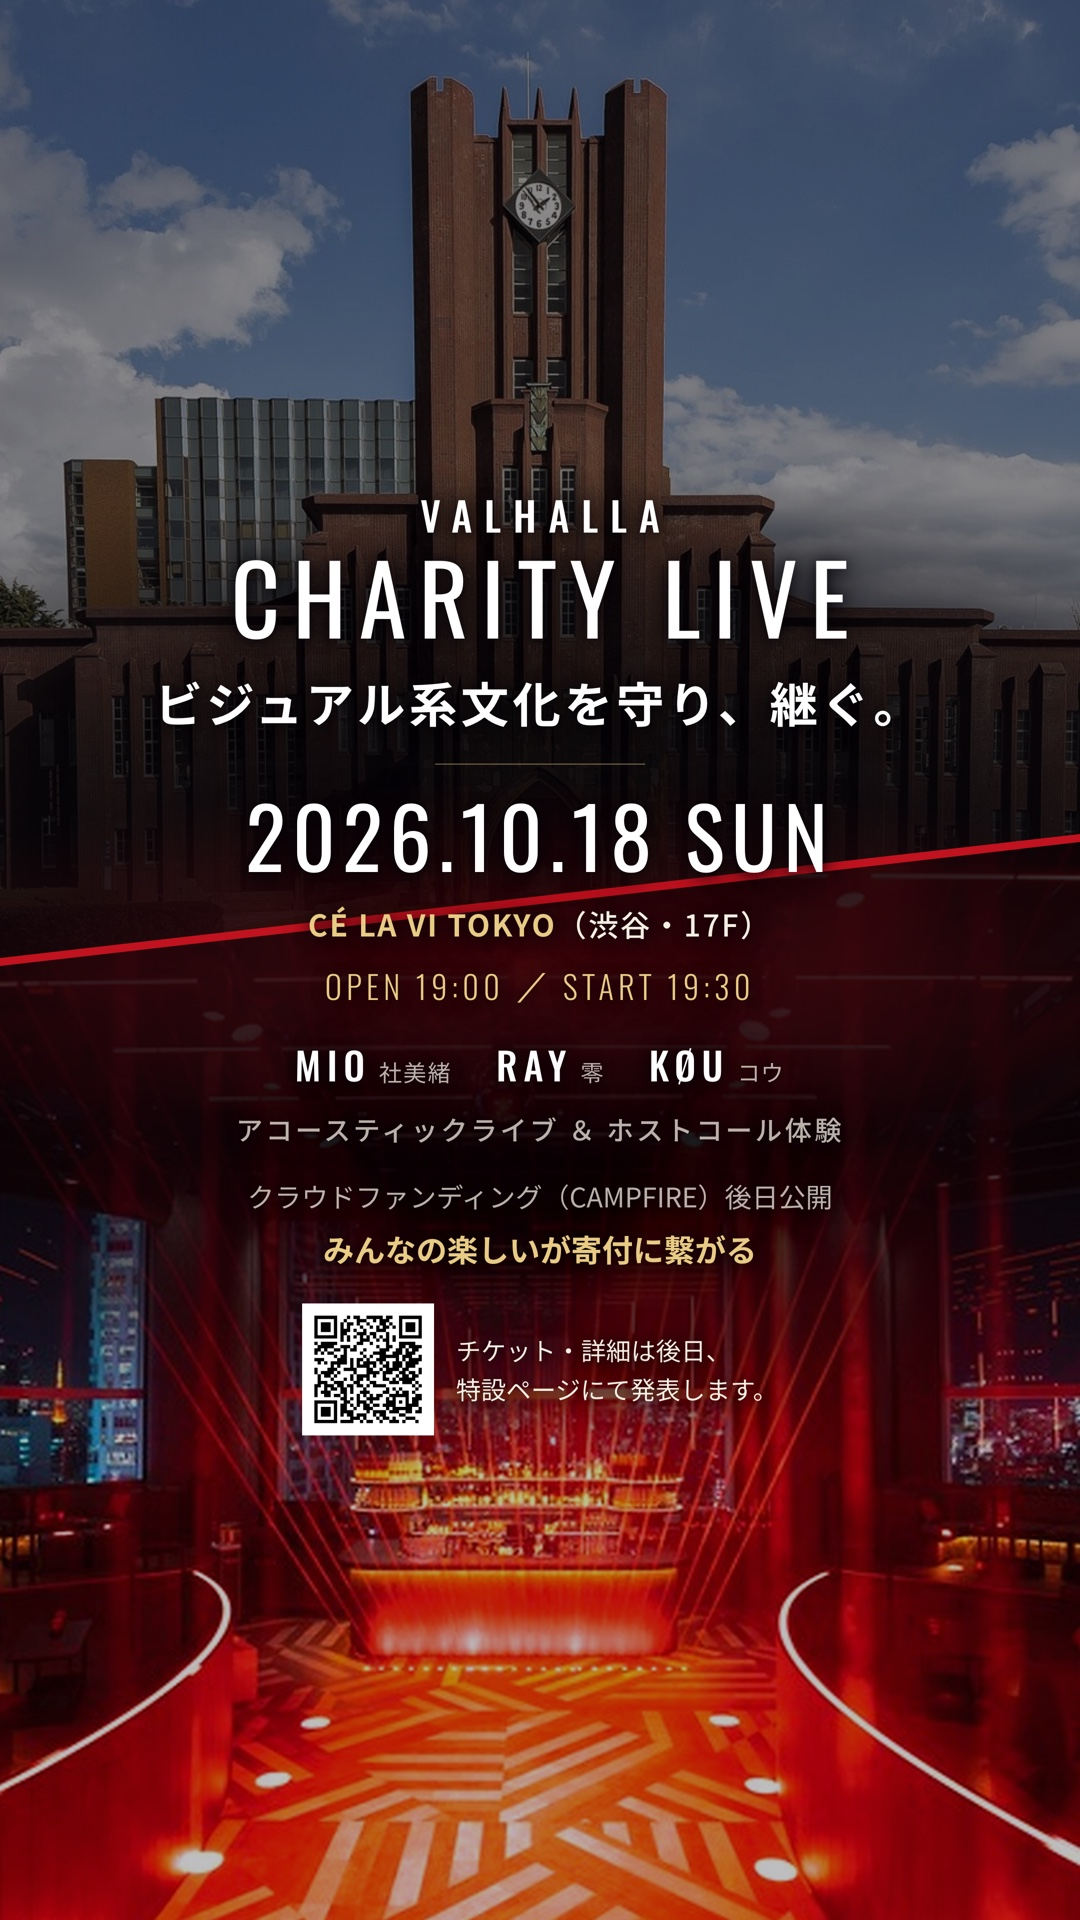
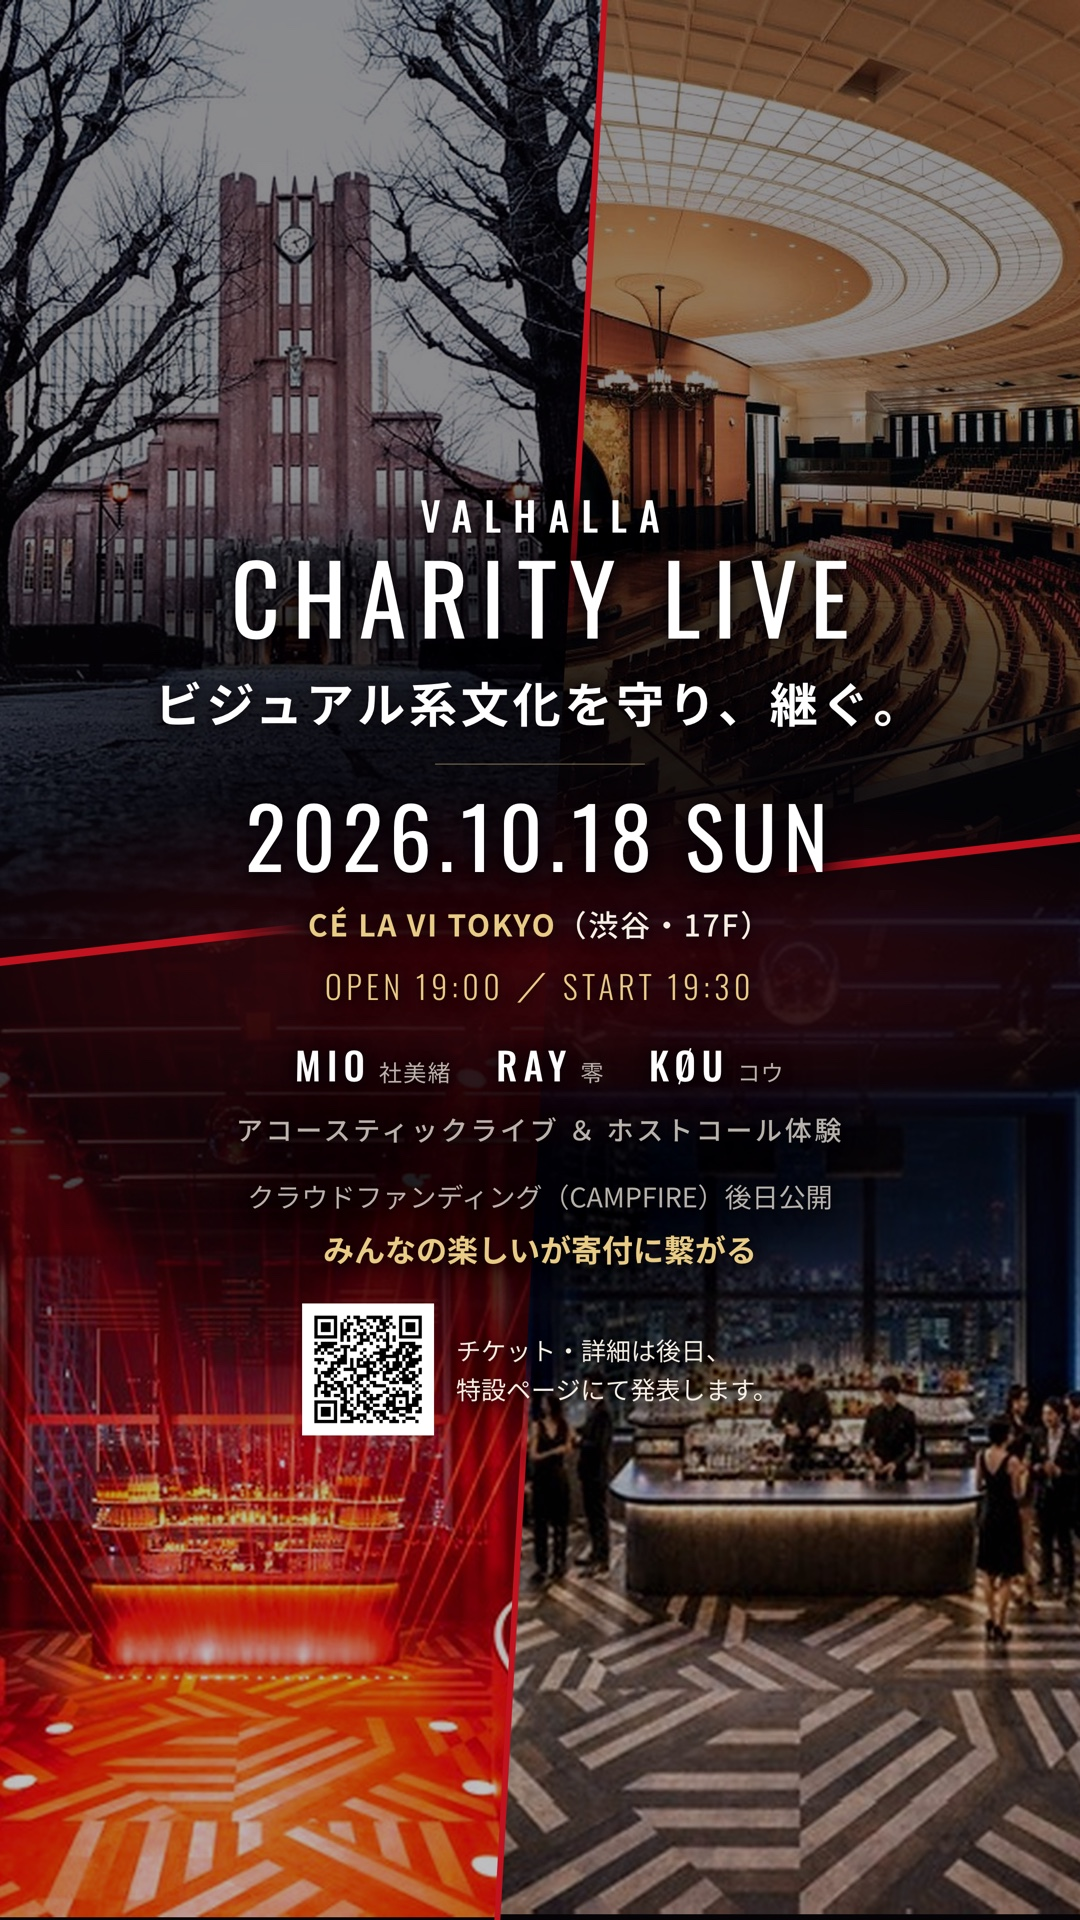
会場写真を追加し、会場のみ版を4枠（田の字）に再構成
kazuma 提供の写真を Codex CLI で高画質化して追加。

- venue/todai_avenue.jpg          900x509  → 2700x1527（東大の並木道＋安田講堂）
- venue/yasuda_hall_interior.jpg 1024x683  → 2560x1708（大講堂の内観）
- venue/celavi_blue.jpg           532x354  → 2128x1416（青ネオン・人が大勢いる）

flyer-teaser-venue.html を2枠 → **4枠（斜めスラッシュで田の字）** に再構成:
  左上＝東大 並木／右上＝安田講堂 大講堂／左下＝CÉ LA VI 赤／右下＝CÉ LA VI 青
上段＝昼の東大／下段＝夜のセラビ という時間軸は維持。
横・縦の斜線は文字の範囲だけ抜いて可読性を確保。

🔴 S__37126309.jpg（安田講堂・青空）は **Adobe Stock の透かし入りプレビュー**
　（#1092019645）のため使用しなかった。ライセンス未購入で使用不可。docs に記載。

diff --git a/flyer-teaser-venue.html b/flyer-teaser-venue.html
@@ -10,7 +10,8 @@
   /* ==========================================================
      告知用ティザー（内容確定前の第一報）
      ■ この版は「バンドメンバーの写真を抜いた」試作です（kazuma 依頼 2026-08-31）
-       上＝東京大学 安田講堂／下＝CÉ LA VI の2枠。斜めスラッシュで上下に分割。
+       会場写真4枠：左上＝東大の並木道／右上＝安田講堂 大講堂／
+       左下＝CÉ LA VI（赤）／右下＝CÉ LA VI（青・賑わい）。斜めスラッシュで田の字に分割。
        ※ 会場写真は2枚とも横位置なので、縦に割ると細長く切れて建物が
          判別できなくなる。そのため上下分割にしている。
      元の構成（kazuma 指示 2026-08-28）:
@@ -41,15 +42,19 @@
   .board.t916{height:1920px;--ma:900px;--tc:965px}
 
   /* ── 上半分：VALHALLA ── */
-  .up{position:absolute;inset:0;z-index:0;background-repeat:no-repeat;
-    clip-path:polygon(0 0,100% 0,100% calc(var(--ma) - var(--drop)),0 calc(var(--ma) + var(--drop)))}
-  /* 下＝CÉ LA VI。斜線を挟んで下端まで */
-  .dn{position:absolute;inset:0;z-index:0;background-repeat:no-repeat;
-    clip-path:polygon(0 calc(var(--ma) + var(--drop)),100% calc(var(--ma) - var(--drop)),100% 100%,0 100%)}
-  /* 写真は「透けて」見える程度に落とす */
-  .up::after,.dn::after{content:"";position:absolute;inset:0}
-  .up::after{background:rgba(5,3,7,.46)}
-  .dn::after{background:rgba(5,3,7,.26)}
+  /* 4枠（斜めスラッシュで田の字に分割）
+     LT=東大 並木 ／ RT=安田講堂 大講堂 ／ LB=CÉ LA VI 赤 ／ RB=CÉ LA VI 青 */
+  .lt,.rt,.lb,.rb{position:absolute;inset:0;z-index:0;background-repeat:no-repeat}
+  .lt{clip-path:polygon(0 0,56% 0,51% var(--ma),0 calc(var(--ma) + var(--drop)))}
+  .rt{clip-path:polygon(56% 0,100% 0,100% calc(var(--ma) - var(--drop)),51% var(--ma))}
+  .lb{clip-path:polygon(0 calc(var(--ma) + var(--drop)),51% var(--ma),46% 100%,0 100%)}
+  .rb{clip-path:polygon(51% var(--ma),100% calc(var(--ma) - var(--drop)),100% 100%,46% 100%)}
+  /* 写真は「透けて」見える程度に落とす。昼のカットは明るいので強めに */
+  .lt::after,.rt::after,.lb::after,.rb::after{content:"";position:absolute;inset:0}
+  .lt::after{background:rgba(5,3,7,.46)}
+  .rt::after{background:rgba(5,3,7,.44)}
+  .lb::after{background:rgba(5,3,7,.26)}
+  .rb::after{background:rgba(5,3,7,.30)}
   /* 文字の周りだけさらに落として可読性を確保 */
   .scrim{position:absolute;inset:0;z-index:1;pointer-events:none;
     background:radial-gradient(ellipse 96% 26% at 50% var(--tc),
@@ -61,7 +66,13 @@
   .slash{position:absolute;left:-14%;width:128%;z-index:2;height:8px;
     background:linear-gradient(90deg,transparent 0,var(--crimson) 9%,var(--crimson) 91%,transparent 100%);
     transform:rotate(-6.55deg)}
-  .slash.s1{top:calc(var(--ma) - 4px)}
+  .slash.s1{top:calc(var(--ma) - 4px);
+    background:linear-gradient(90deg,transparent 0,var(--crimson) 8%,var(--crimson) 26%,
+      transparent 33%,transparent 67%,var(--crimson) 74%,var(--crimson) 92%,transparent 100%)}
+  .vslash{position:absolute;z-index:2;left:51%;top:0;width:6px;height:100%;
+    background:linear-gradient(180deg,var(--crimson) 0%,var(--crimson) 26%,
+      transparent 33%,transparent 70%,var(--crimson) 77%,var(--crimson) 100%);
+    transform:translateX(-50%) skewX(-3.2deg)}
 
   /* 文字帯にクリムゾンの焦点を寄せる */
   .focus{position:absolute;inset:0;z-index:1;pointer-events:none;
@@ -102,10 +113,14 @@
   .qrrow .qt{text-align:left;color:var(--ink);line-height:1.55}
 
   /* ---------- 1080x1350 ---------- */
-  .t45 .up{background-image:url('assets/charity/venue/yasuda1.jpg');
-    background-size:1160px auto;background-position:center -20px}
-  .t45 .dn{background-image:url('assets/charity/venue/celavi_red.jpg');
-    background-size:1180px auto;background-position:center 562px}
+  .t45 .lt{background-image:url('assets/charity/venue/todai_avenue.jpg');
+    background-size:1170px auto;background-position:-380px 0}
+  .t45 .rt{background-image:url('assets/charity/venue/yasuda_hall_interior.jpg');
+    background-size:930px auto;background-position:105px 0}
+  .t45 .lb{background-image:url('assets/charity/venue/celavi_red.jpg');
+    background-size:1090px auto;background-position:-355px 622px}
+  .t45 .rb{background-image:url('assets/charity/venue/celavi_blue.jpg');
+    background-size:1090px auto;background-position:20px 622px}
   .t45 .brand{font-size:31px}
   .t45 h1{margin-top:9px;font-size:74px}
   .t45 .tagline{margin-top:18px;font-size:38px}
@@ -129,10 +144,14 @@
   .t45 .mark{width:150px;margin:22px auto 16px}
 
   /* ---------- 1080x1080 ---------- */
-  .t11 .up{background-image:url('assets/charity/venue/yasuda1.jpg');
-    background-size:1090px auto;background-position:center -10px}
-  .t11 .dn{background-image:url('assets/charity/venue/celavi_red.jpg');
-    background-size:1090px auto;background-position:center 352px}
+  .t11 .lt{background-image:url('assets/charity/venue/todai_avenue.jpg');
+    background-size:930px auto;background-position:-300px 0}
+  .t11 .rt{background-image:url('assets/charity/venue/yasuda_hall_interior.jpg');
+    background-size:740px auto;background-position:85px 0}
+  .t11 .lb{background-image:url('assets/charity/venue/celavi_red.jpg');
+    background-size:870px auto;background-position:-282px 494px}
+  .t11 .rb{background-image:url('assets/charity/venue/celavi_blue.jpg');
+    background-size:870px auto;background-position:16px 494px}
   .t11 .brand{font-size:27px}
   .t11 h1{margin-top:8px;font-size:62px}
   .t11 .tagline{margin-top:15px;font-size:33px}
@@ -156,10 +175,14 @@
   .t11 .mark{width:126px;margin:17px auto 13px}
 
   /* ---------- 1080x1920 ---------- */
-  .t916 .up{background-image:url('assets/charity/venue/yasuda1.jpg');
-    background-size:1560px auto;background-position:center -40px}
-  .t916 .dn{background-image:url('assets/charity/venue/celavi_red.jpg');
-    background-size:1640px auto;background-position:center 830px}
+  .t916 .lt{background-image:url('assets/charity/venue/todai_avenue.jpg');
+    background-size:1660px auto;background-position:-540px 0}
+  .t916 .rt{background-image:url('assets/charity/venue/yasuda_hall_interior.jpg');
+    background-size:1320px auto;background-position:150px 0}
+  .t916 .lb{background-image:url('assets/charity/venue/celavi_red.jpg');
+    background-size:1540px auto;background-position:-500px 890px}
+  .t916 .rb{background-image:url('assets/charity/venue/celavi_blue.jpg');
+    background-size:1540px auto;background-position:30px 890px}
   .t916 .brand{font-size:40px}
   .t916 h1{margin-top:12px;font-size:96px}
   .t916 .tagline{margin-top:24px;font-size:48px}
@@ -186,9 +209,12 @@
 <body>
 
 <section class="board t45">
-  <div class="up"></div>
-  <div class="dn"></div>
+  <div class="lt"></div>
+  <div class="rt"></div>
+  <div class="lb"></div>
+  <div class="rb"></div>
   <div class="slash s1"></div>
+  <div class="vslash"></div>
   <div class="scrim"></div>
   <div class="focus"></div>
 
@@ -214,9 +240,12 @@
 
 
 <section class="board t11">
-  <div class="up"></div>
-  <div class="dn"></div>
+  <div class="lt"></div>
+  <div class="rt"></div>
+  <div class="lb"></div>
+  <div class="rb"></div>
   <div class="slash s1"></div>
+  <div class="vslash"></div>
   <div class="scrim"></div>
   <div class="focus"></div>
 
@@ -242,9 +271,12 @@
 
 
 <section class="board t916">
-  <div class="up"></div>
-  <div class="dn"></div>
+  <div class="lt"></div>
+  <div class="rt"></div>
+  <div class="lb"></div>
+  <div class="rb"></div>
   <div class="slash s1"></div>
+  <div class="vslash"></div>
   <div class="scrim"></div>
   <div class="focus"></div>
 

diff --git a/assets/charity/venue/upscale_2026-08-31.py b/assets/charity/venue/upscale_2026-08-31.py
@@ -1,0 +1,70 @@
+#!/usr/bin/env /usr/bin/python3
+"""Conservative, non-generative upscaling for the three supplied JPEGs."""
+
+from pathlib import Path
+
+import numpy as np
+from PIL import Image, ImageFilter
+
+
+JOBS = (
+    ("todai_avenue.jpg", "todai_avenue_hq.jpg", (2700, 1527)),
+    ("yasuda_hall.jpg", "yasuda_hall_hq.jpg", (2560, 1708)),
+    ("celavi_blue.jpg", "celavi_blue_hq.jpg", (2128, 1416)),
+)
+
+INPUT_DIR = Path("in")
+OUTPUT_DIR = Path("out")
+
+
+def selective_denoise(image: Image.Image) -> Image.Image:
+    """Blend a tiny blur into flat areas, with slightly more weight in shadows."""
+    source = np.asarray(image, dtype=np.float32)
+    local_mean = np.asarray(image.filter(ImageFilter.GaussianBlur(1.15)), dtype=np.float32)
+    gentle_blur = np.asarray(image.filter(ImageFilter.GaussianBlur(0.55)), dtype=np.float32)
+
+    luma = source[..., 0] * 0.2126 + source[..., 1] * 0.7152 + source[..., 2] * 0.0722
+    detail = np.mean(np.abs(source - local_mean), axis=2)
+
+    # The mask quickly falls to zero at edges/textures. Shadows receive at most
+    # a small additional blend, which suppresses noise without waxy detail loss.
+    flatness = np.clip((8.0 - detail) / 8.0, 0.0, 1.0)
+    darkness = np.clip((105.0 - luma) / 105.0, 0.0, 1.0)
+    amount = flatness * (0.08 + 0.10 * darkness)
+    result = source * (1.0 - amount[..., None]) + gentle_blur * amount[..., None]
+    return Image.fromarray(np.clip(np.rint(result), 0, 255).astype(np.uint8))
+
+
+def luma_contrast(image: Image.Image, factor: float = 1.04) -> Image.Image:
+    """Raise luminance contrast without directly scaling color saturation."""
+    rgb = np.asarray(image, dtype=np.float32)
+    luma = rgb[..., 0] * 0.2126 + rgb[..., 1] * 0.7152 + rgb[..., 2] * 0.0722
+    adjusted_luma = (luma - 127.5) * factor + 127.5
+    result = rgb + (adjusted_luma - luma)[..., None]
+    return Image.fromarray(np.clip(np.rint(result), 0, 255).astype(np.uint8))
+
+
+def process(source_path: Path, output_path: Path, target_size: tuple[int, int]) -> None:
+    with Image.open(source_path) as opened:
+        image = opened.convert("RGB")
+        image = image.resize(target_size, Image.Resampling.LANCZOS)
+
+    # Low amount and a small radius recover interpolation softness while keeping
+    # bright/dark edge overshoot (visible halos) restrained.
+    image = image.filter(ImageFilter.UnsharpMask(radius=1.25, percent=55, threshold=3))
+    image = selective_denoise(image)
+    image = luma_contrast(image, factor=1.04)
+    image.save(output_path, "JPEG", quality=95, subsampling=0, optimize=True)
+
+
+def main() -> None:
+    OUTPUT_DIR.mkdir(parents=True, exist_ok=True)
+    for source_name, output_name, target_size in JOBS:
+        source_path = INPUT_DIR / source_name
+        output_path = OUTPUT_DIR / output_name
+        process(source_path, output_path, target_size)
+        print(f"{source_path} -> {output_path} {target_size[0]}x{target_size[1]}")
+
+
+if __name__ == "__main__":
+    main()

diff --git a/docs/celavi-afterparty.md b/docs/celavi-afterparty.md
@@ -199,6 +199,22 @@
   リスクがあるため、事実（会場・寄付先）のまま押し出す方針とする。
   共催/後援/協力の許諾が取れたら、その時点で正式名称と表記ルールを確認して差し替える。
 
+## 会場写真の追加（2026-08-31・kazuma 提供）
+Codex CLI で高画質化して `assets/charity/venue/` に追加（スクリプト: `upscale_2026-08-31.py`）。
+
+| ファイル | 元 | 高画質化後 | 内容 |
+|---|---|---|---|
+| `todai_avenue.jpg` | 900×509 | 2700×1527 | 東大の並木道の奥に安田講堂（冬・荘厳） |
+| `yasuda_hall_interior.jpg` | 1024×683 | 2560×1708 | 安田講堂 大講堂の内観（客席・舞台） |
+| `celavi_blue.jpg` | 532×354 | 2128×1416 | CÉ LA VI 青いネオン・**人が大勢いる（賑わい）** |
+
+- 「会場写真のみ版」を **4枠（田の字）** に再構成して全部使用:
+  左上＝東大 並木／右上＝安田講堂 大講堂／左下＝CÉ LA VI 赤／右下＝CÉ LA VI 青
+- 🔴 **`S__37126309.jpg`（安田講堂・青空）は使用不可。**
+  Adobe Stock の透かし入りプレビュー（#1092019645）。ライセンス未購入のため
+  そのまま使うことも透かしを除去して使うこともできない。使いたい場合は購入が必要。
+- 🔴 上記3枚も撮影者・使用許諾は未確認。
+
 ## CÉ LA VI の画像（2026-08-31）
 - kazuma 提供の **赤いレーザー照明の店内写真**（元 `S__37126285.jpg` 640×427）を採用。
   Codex CLI で4倍に高画質化 → `assets/charity/venue/celavi_red.jpg`（2560×1708）
